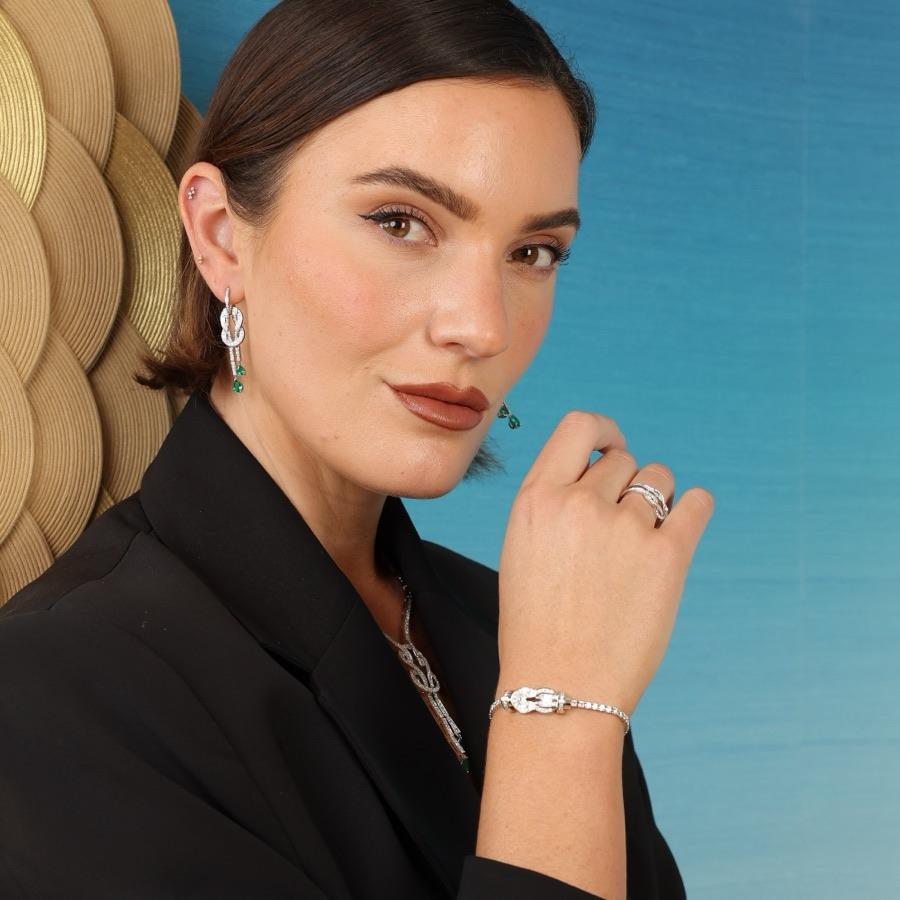
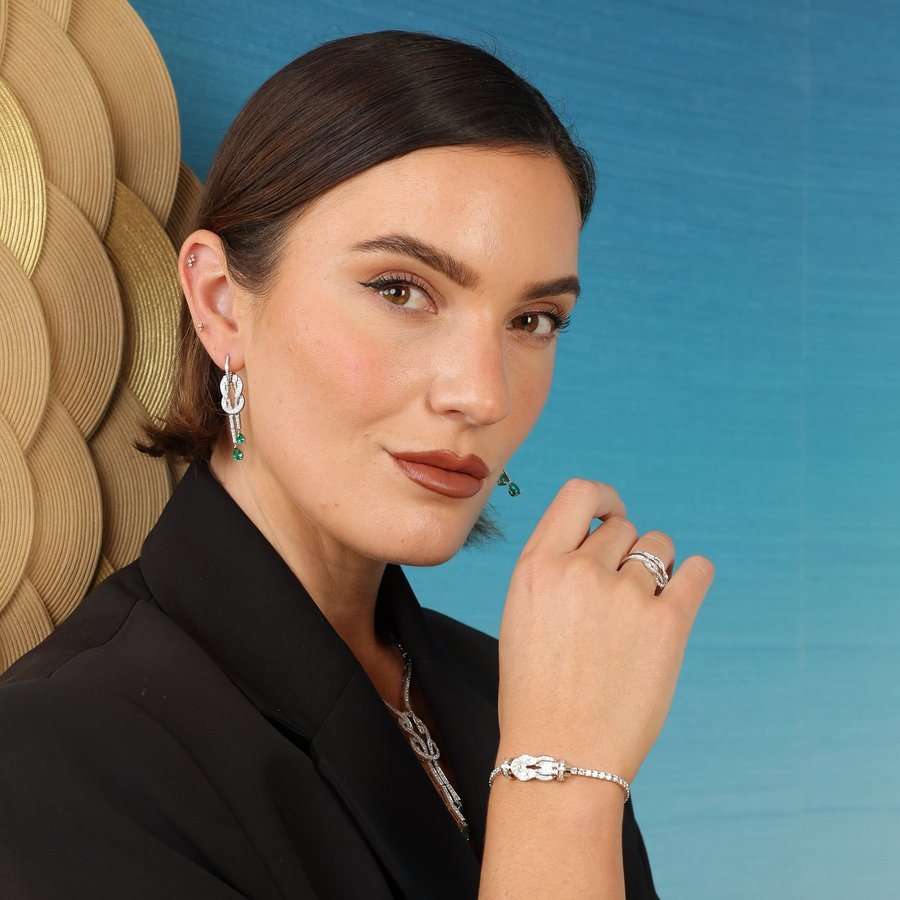
Re-crop Westpac, Fred and Studio sessions covers with real headroom
The 900x900 web crops were cut too tight at export — heads touching
the frame top. CSS object-position couldn't help: square image in a
square box crops nothing. Re-exported all three from the gitignored
source folders with the full-width top square, and cache-busted the
image URLs (?v=2) so the CDN drops the old copies. The lx-crop-top
class/rule from the earlier attempt was a no-op; removed.

diff --git a/portfolio.html b/portfolio.html
@@ -72,8 +72,8 @@
           </div>
         </article>
         <article class="lx-plate">
-          <div class="lx-plate-img lx-plate-img-small lx-crop-top">
-            <img src="assets/img/b-westpac.jpg" srcset="assets/img/b-westpac.webp" alt="Executive in a suit and red tie at a group event" loading="lazy">
+          <div class="lx-plate-img lx-plate-img-small">
+            <img src="assets/img/b-westpac.jpg?v=2" srcset="assets/img/b-westpac.webp?v=2" alt="Executive in a suit and red tie at a group event" loading="lazy">
           </div>
           <div class="lx-plate-meta">
             <h3 class="lx-plate-name">Westpac</h3>
@@ -136,8 +136,8 @@
           </div>
         </article>
         <article class="lx-plate">
-          <div class="lx-plate-img lx-plate-img-small lx-crop-top">
-            <img src="assets/img/b-fred.jpg" srcset="assets/img/b-fred.webp" alt="Portrait in a black blazer wearing a silver bracelet" loading="lazy">
+          <div class="lx-plate-img lx-plate-img-small">
+            <img src="assets/img/b-fred.jpg?v=2" srcset="assets/img/b-fred.webp?v=2" alt="Portrait in a black blazer wearing a silver bracelet" loading="lazy">
           </div>
           <div class="lx-plate-meta">
             <h3 class="lx-plate-name">Fred</h3>
@@ -232,8 +232,8 @@
           </div>
         </article>
         <article class="lx-plate">
-          <div class="lx-plate-img lx-plate-img-small lx-crop-top">
-            <img src="assets/img/b-studio.jpg" srcset="assets/img/b-studio.webp" alt="Studio portrait of a man in a double-breasted navy suit" loading="lazy">
+          <div class="lx-plate-img lx-plate-img-small">
+            <img src="assets/img/b-studio.jpg?v=2" srcset="assets/img/b-studio.webp?v=2" alt="Studio portrait of a man in a double-breasted navy suit" loading="lazy">
           </div>
           <div class="lx-plate-meta">
             <h3 class="lx-plate-name">Studio sessions</h3>

diff --git a/assets/css/lx.css b/assets/css/lx.css
@@ -487,10 +487,6 @@ body.lx {
   border: none;
   border-radius: 10px;
 }
-/* Tall source photos whose faces sit near the top of frame */
-.lx-crop-top img {
-  object-position: 50% 12%;
-}
 .lx-plate-meta {
   padding-top: 20px;
 }
